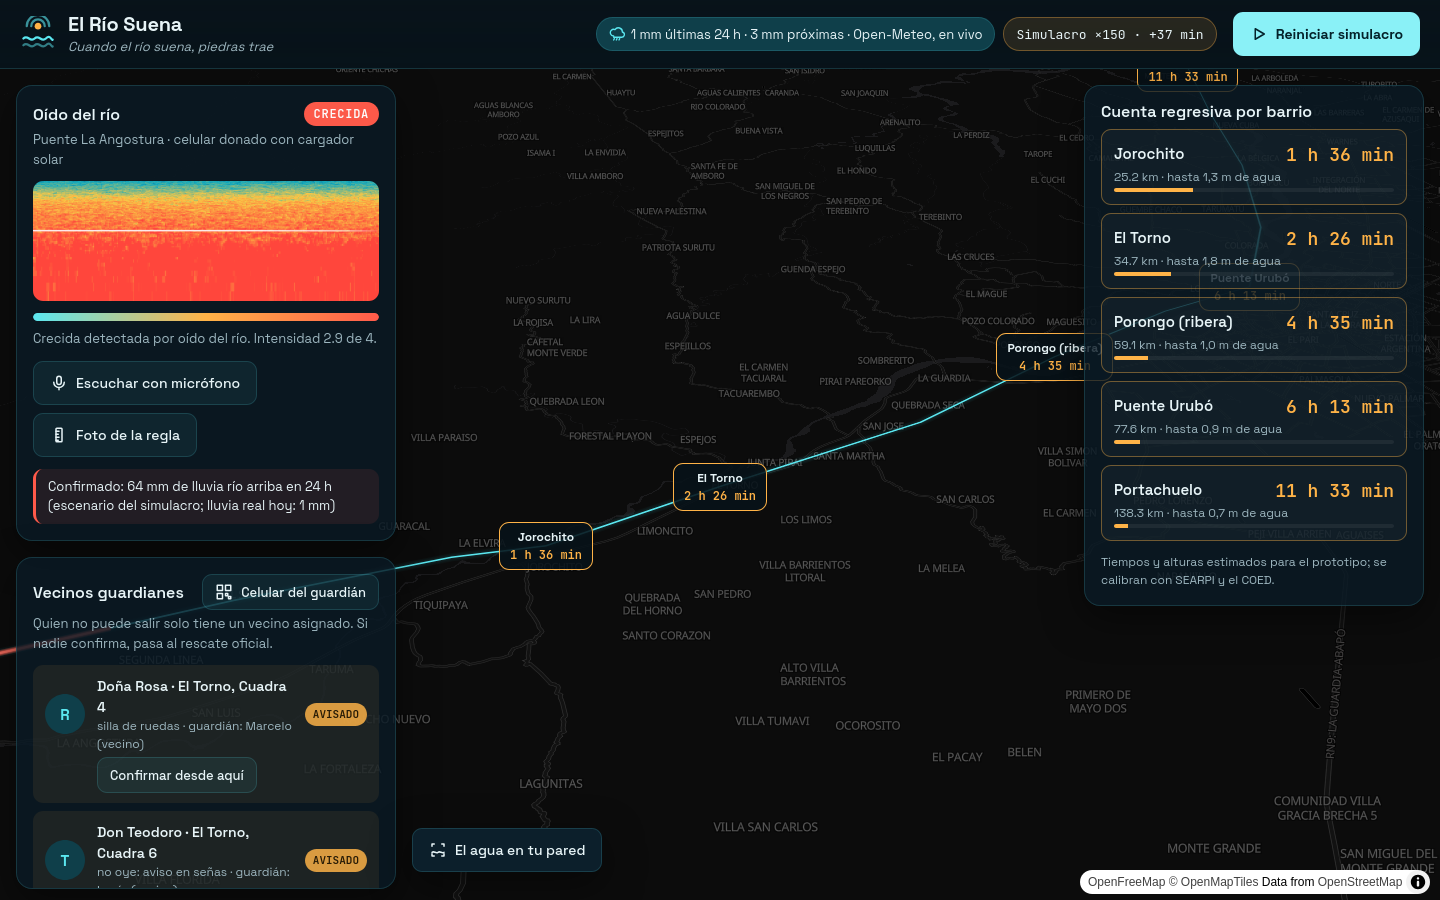
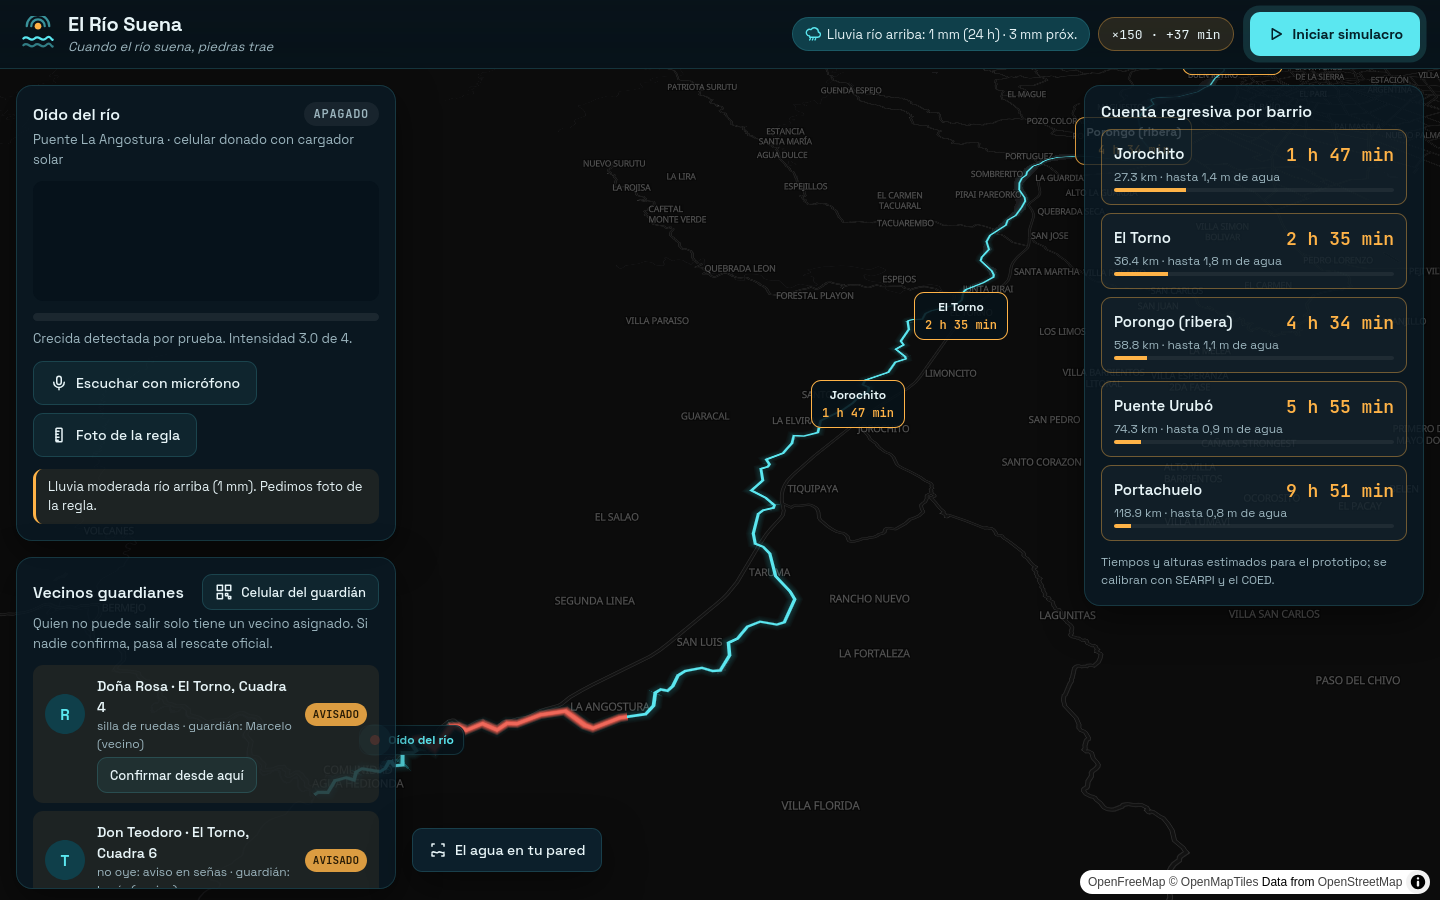
Cauce real del Piraí (OSM), mapa enfocado en el tramo, ajustes de celular

diff --git a/js/cauce-pirai.js b/js/cauce-pirai.js
@@ -1,0 +1,3 @@
+// Cauce real del río Piraí (OpenStreetMap, vía mosaicos de OpenFreeMap), de sur a norte, simplificado.
+// Generado el 18/11/2026; © colaboradores de OpenStreetMap (ODbL).
+export const CAUCE_PIRAI = [[-63.5596,-18.1876],[-63.5590,-18.1870],[-63.5567,-18.1870],[-63.5559,-18.1839],[-63.5536,-18.1831],[-63.5516,-18.1837],[-63.5516,-18.1816],[-63.5505,-18.1807],[-63.5461,-18.1815],[-63.5451,-18.1806],[-63.5445,-18.1783],[-63.5432,-18.1799],[-63.5413,-18.1797],[-63.5420,-18.1763],[-63.5394,-18.1763],[-63.5389,-18.1758],[-63.5405,-18.1738],[-63.5405,-18.1727],[-63.5388,-18.1723],[-63.5347,-18.1751],[-63.5319,-18.1689],[-63.5304,-18.1688],[-63.5281,-18.1700],[-63.5246,-18.1681],[-63.5208,-18.1699],[-63.5187,-18.1680],[-63.5163,-18.1681],[-63.5110,-18.1655],[-63.5051,-18.1644],[-63.4999,-18.1686],[-63.4979,-18.1694],[-63.4918,-18.1664],[-63.4856,-18.1653],[-63.4838,-18.1628],[-63.4836,-18.1589],[-63.4823,-18.1579],[-63.4806,-18.1583],[-63.4794,-18.1569],[-63.4782,-18.1536],[-63.4765,-18.1522],[-63.4723,-18.1512],[-63.4696,-18.1522],[-63.4677,-18.1520],[-63.4654,-18.1472],[-63.4657,-18.1431],[-63.4634,-18.1417],[-63.4608,-18.1377],[-63.4575,-18.1360],[-63.4532,-18.1370],[-63.4512,-18.1362],[-63.4482,-18.1282],[-63.4493,-18.1255],[-63.4531,-18.1198],[-63.4545,-18.1113],[-63.4563,-18.1087],[-63.4585,-18.1075],[-63.4590,-18.1035],[-63.4575,-18.0955],[-63.4561,-18.0940],[-63.4531,-18.0930],[-63.4528,-18.0919],[-63.4553,-18.0887],[-63.4594,-18.0856],[-63.4560,-18.0812],[-63.4565,-18.0760],[-63.4544,-18.0751],[-63.4539,-18.0740],[-63.4548,-18.0718],[-63.4497,-18.0689],[-63.4468,-18.0642],[-63.4461,-18.0606],[-63.4430,-18.0608],[-63.4386,-18.0591],[-63.4374,-18.0533],[-63.4302,-18.0480],[-63.4267,-18.0444],[-63.4242,-18.0407],[-63.4212,-18.0384],[-63.4209,-18.0362],[-63.4227,-18.0348],[-63.4218,-18.0324],[-63.4138,-18.0281],[-63.4109,-18.0225],[-63.4072,-18.0206],[-63.4073,-18.0193],[-63.4100,-18.0151],[-63.4071,-18.0126],[-63.4078,-18.0104],[-63.4043,-18.0034],[-63.4042,-17.9987],[-63.4038,-17.9980],[-63.4021,-17.9974],[-63.3989,-17.9972],[-63.3974,-17.9937],[-63.3952,-17.9920],[-63.3861,-17.9883],[-63.3834,-17.9852],[-63.3821,-17.9802],[-63.3810,-17.9784],[-63.3739,-17.9738],[-63.3696,-17.9700],[-63.3692,-17.9685],[-63.3695,-17.9657],[-63.3725,-17.9586],[-63.3717,-17.9561],[-63.3681,-17.9505],[-63.3681,-17.9448],[-63.3660,-17.9401],[-63.3586,-17.9324],[-63.3572,-17.9285],[-63.3534,-17.9248],[-63.3500,-17.9186],[-63.3475,-17.9132],[-63.3472,-17.9104],[-63.3482,-17.9037],[-63.3471,-17.8980],[-63.3453,-17.8938],[-63.3430,-17.8911],[-63.3421,-17.8882],[-63.3386,-17.8831],[-63.3351,-17.8809],[-63.3336,-17.8790],[-63.3311,-17.8771],[-63.3266,-17.8751],[-63.3167,-17.8739],[-63.3118,-17.8745],[-63.2969,-17.8785],[-63.2923,-17.8778],[-63.2897,-17.8761],[-63.2864,-17.8727],[-63.2849,-17.8696],[-63.2864,-17.8563],[-63.2846,-17.8510],[-63.2824,-17.8375],[-63.2794,-17.8318],[-63.2764,-17.8274],[-63.2713,-17.8221],[-63.2714,-17.8179],[-63.2707,-17.8164],[-63.2681,-17.8150],[-63.2579,-17.8141],[-63.2471,-17.8086],[-63.2421,-17.8036],[-63.2390,-17.8014],[-63.2343,-17.7934],[-63.2270,-17.7842],[-63.2240,-17.7752],[-63.2228,-17.7735],[-63.2166,-17.7665],[-63.2116,-17.7630],[-63.2110,-17.7612],[-63.2113,-17.7540],[-63.2095,-17.7387],[-63.1976,-17.7111],[-63.1983,-17.7027],[-63.2003,-17.6983],[-63.2066,-17.6901],[-63.2088,-17.6746],[-63.2073,-17.6702],[-63.1998,-17.6629],[-63.1960,-17.6545],[-63.1957,-17.6460],[-63.2017,-17.6212],[-63.2034,-17.6184],[-63.2035,-17.6134],[-63.2031,-17.6094],[-63.1974,-17.5944],[-63.1968,-17.5914],[-63.1978,-17.5891],[-63.1977,-17.5846],[-63.2004,-17.5777],[-63.2075,-17.5695],[-63.2095,-17.5567],[-63.2122,-17.5519],[-63.2126,-17.5470],[-63.2140,-17.5421],[-63.2120,-17.5300],[-63.2091,-17.5229],[-63.2106,-17.5164],[-63.2148,-17.5111],[-63.2186,-17.5012],[-63.2221,-17.4960],[-63.2243,-17.4790],[-63.2255,-17.4765],[-63.2328,-17.4710],[-63.2353,-17.4646],[-63.2399,-17.4581],[-63.2461,-17.4457],[-63.2539,-17.4346],[-63.2612,-17.4269],[-63.2670,-17.4183],[-63.2707,-17.4153],[-63.2743,-17.4145],[-63.2864,-17.4152],[-63.2912,-17.4150],[-63.2948,-17.4140],[-63.2973,-17.4082],[-63.3004,-17.4050],[-63.3066,-17.4012],[-63.3151,-17.3887],[-63.3249,-17.3829],[-63.3304,-17.3806],[-63.3340,-17.3755],[-63.3327,-17.3657],[-63.3372,-17.3541],[-63.3377,-17.3512],[-63.3348,-17.3458],[-63.3341,-17.3408],[-63.3276,-17.3305],[-63.3269,-17.3279],[-63.3272,-17.3174],[-63.3266,-17.3136],[-63.3261,-17.3114],[-63.3228,-17.3054],[-63.3217,-17.3002],[-63.3221,-17.2966],[-63.3240,-17.2941],[-63.3237,-17.2926],[-63.3214,-17.2897],[-63.3175,-17.2884],[-63.3153,-17.2885],[-63.3103,-17.2904],[-63.3091,-17.2898],[-63.3084,-17.2884],[-63.3092,-17.2826],[-63.3073,-17.2779],[-63.3089,-17.2711],[-63.3082,-17.2639],[-63.3069,-17.2587],[-63.3091,-17.2476],[-63.3102,-17.2380],[-63.3099,-17.2347],[-63.3049,-17.2302],[-63.2987,-17.2274],[-63.2991,-17.2243],[-63.3019,-17.2209],[-63.3030,-17.2182],[-63.3032,-17.2147],[-63.2978,-17.2049],[-63.2943,-17.2012],[-63.2901,-17.1945],[-63.2901,-17.1920],[-63.2910,-17.1911],[-63.2948,-17.1895],[-63.2966,-17.1874],[-63.2987,-17.1804],[-63.2978,-17.1796],[-63.2906,-17.1779],[-63.2858,-17.1781],[-63.2840,-17.1770],[-63.2836,-17.1758],[-63.2848,-17.1727],[-63.2909,-17.1667],[-63.2928,-17.1624],[-63.2943,-17.1566],[-63.2988,-17.1482],[-63.2987,-17.1460],[-63.2974,-17.1448],[-63.2895,-17.1410],[-63.2895,-17.1378]];

diff --git a/js/datos.js b/js/datos.js
@@ -1,20 +1,18 @@
 // Datos del prototipo. Distancias, velocidades y alturas son ESTIMADOS para la demo:
 // hay que calibrarlos con SEARPI / COED antes de usarlos de verdad.
-export const SENSOR = { id: 'angostura', nombre: 'Oído del río · Puente La Angostura', lon: -63.560, lat: -18.153 };
+export const SENSOR = { id: 'angostura', nombre: 'Oído del río · Puente La Angostura', lon: -63.5405, lat: -18.1727 };
 
-// Cauce aproximado del Piraí (de sur a norte) para dibujarlo en el mapa.
-export const CAUCE = [
-  [-63.62, -18.22], [-63.560, -18.153], [-63.50, -18.10], [-63.45, -18.06], [-63.425, -18.045],
-  [-63.385, -17.995], [-63.33, -17.93], [-63.29, -17.86], [-63.25, -17.80], [-63.215, -17.760],
-  [-63.21, -17.68], [-63.22, -17.58], [-63.24, -17.48], [-63.26, -17.36],
-];
+import { CAUCE_PIRAI } from './cauce-pirai.js';
+export const CAUCE = CAUCE_PIRAI;
+/** índice del cauce más cercano al sensor: desde ahí se miden los km */
+export const SENSOR_IDX = CAUCE.reduce((m, p, i) => (Math.hypot(p[0] - SENSOR.lon, p[1] - SENSOR.lat) < Math.hypot(CAUCE[m][0] - SENSOR.lon, CAUCE[m][1] - SENSOR.lat) ? i : m), 0);
 
-export const SINUOSIDAD = 1.35; // el río serpentea: más largo que la línea dibujada
+export const SINUOSIDAD = 1.05; // el trazado real ya está simplificado
 
-/** km acumulados del cauce desde el sensor (índice 1) hasta cada vértice. */
+/** km acumulados del cauce desde el sensor hasta cada vértice (0 río arriba del sensor). */
 export const KM_CAUCE = (() => {
-  const km = [0, 0];
-  for (let i = 2; i < CAUCE.length; i++) km.push(km[i - 1] + distKm(CAUCE[i - 1], CAUCE[i]) * SINUOSIDAD);
+  const km = CAUCE.map(() => 0);
+  for (let i = SENSOR_IDX + 1; i < CAUCE.length; i++) km[i] = km[i - 1] + distKm(CAUCE[i - 1], CAUCE[i]) * SINUOSIDAD;
   return km;
 })();
 export const KM_TOTAL = KM_CAUCE[KM_CAUCE.length - 1];
@@ -36,7 +34,7 @@ export function distKm(a, b) {
 /** Proyecta un punto sobre el cauce y devuelve los km desde el sensor. */
 export function kmEnCauce(p) {
   let mejor = { d: Infinity, km: 0 };
-  for (let i = 1; i < CAUCE.length - 1; i++) {
+  for (let i = SENSOR_IDX; i < CAUCE.length - 1; i++) {
     const a = CAUCE[i], b = CAUCE[i + 1], dx = b[0] - a[0], dy = b[1] - a[1];
     const t = Math.max(0, Math.min(1, ((p[0] - a[0]) * dx + (p[1] - a[1]) * dy) / (dx * dx + dy * dy)));
     const q = [a[0] + t * dx, a[1] + t * dy], d = distKm(p, q);
@@ -46,8 +44,8 @@ export function kmEnCauce(p) {
 }
 /** Punto del cauce a km recorridos desde el sensor (para dibujar la crecida). */
 export function tramoHasta(km) {
-  const pts = [CAUCE[1]];
-  for (let i = 2; i < CAUCE.length; i++) {
+  const pts = [CAUCE[SENSOR_IDX]];
+  for (let i = SENSOR_IDX + 1; i < CAUCE.length; i++) {
     if (KM_CAUCE[i] <= km) { pts.push(CAUCE[i]); continue; }
     const t = (km - KM_CAUCE[i - 1]) / (KM_CAUCE[i] - KM_CAUCE[i - 1]);
     if (t > 0) pts.push([CAUCE[i - 1][0] + (CAUCE[i][0] - CAUCE[i - 1][0]) * t, CAUCE[i - 1][1] + (CAUCE[i][1] - CAUCE[i - 1][1]) * t]);

diff --git a/js/mapa.js b/js/mapa.js
@@ -18,7 +18,10 @@ export function crearMapa(el) {
     map.addLayer({ id: 'crecida', type: 'line', source: 'crecida', paint: { 'line-color': '#ff5a4a', 'line-width': 9, 'line-blur': 2, 'line-opacity': 0.9 } });
   };
   map.on('style.load', capas);
-  map.on('load', () => clearTimeout(t));
+  map.on('load', () => {
+    clearTimeout(t);
+    if (innerWidth <= 900) el.querySelector('.maplibregl-ctrl-attrib')?.classList.remove('maplibregl-compact-show');
+  });
 
   const marcas = {};
   const marca = (id, lon, lat, html, clase) => {
@@ -42,7 +45,7 @@ export function crearMapa(el) {
       m.el.querySelector('.cr').textContent = texto; m.el.dataset.estado = estado;
     },
     volar(b) { map.flyTo({ center: [b.lon, b.lat], zoom: 11, pitch: 58, duration: 2500, padding: PAD() }); },
-    tramo(b) { map.fitBounds([[Math.min(SENSOR.lon, b.lon), Math.min(SENSOR.lat, b.lat)], [Math.max(SENSOR.lon, b.lon), Math.max(SENSOR.lat, b.lat)]], { padding: { ...PAD(), top: PAD().top + 60, bottom: PAD().bottom + 60 }, pitch: 50, duration: 2500 }); },
+    tramo(b) { map.fitBounds([[Math.min(SENSOR.lon, b.lon), Math.min(SENSOR.lat, b.lat)], [Math.max(SENSOR.lon, b.lon), Math.max(SENSOR.lat, b.lat)]], { padding: { top: 60, bottom: 120, left: 80, right: 60 }, pitch: 50, duration: 2500 }); },
     general() { map.flyTo({ center: [-63.36, -17.93], zoom: 9.2, pitch: 55, bearing: -20, duration: 2000, padding: PAD() }); },
   };
 }

diff --git a/estilo.css b/estilo.css
@@ -132,12 +132,16 @@ select { min-height: 36px; border-radius: var(--r-chico); background: var(--supe
   html, body { height: auto; }
   body { overflow: visible; }
   .barra { flex-wrap: wrap; padding: 12px 16px; }
-  .chips { order: 3; width: 100%; }
+  .chips { order: 3; width: 100%; flex-wrap: wrap; }
+  .chip { font-size: 12px; padding: 4px 10px; white-space: nowrap; }
   .barra .btn.primario { padding: 8px 12px; }
   .tablero { height: auto; display: flex; flex-direction: column; padding: 0 16px 96px; gap: 16px; pointer-events: auto; }
   .mapa { position: relative; height: 52vh; margin: 0 -16px; inset: auto; }
   .cuenta { order: 2; } .oido { order: 1; } .guardianes { order: 3; }
   .panel { max-height: none; overflow: visible; }
+  .marca { padding: 3px 7px; font-size: 10px; border-radius: 8px; }
+  .marca .cr { font-size: 10px; }
+  .marca:not([data-estado="alerta"]):not([data-estado="llego"]):not(.sensor) .cr { display: none; }
   .flotante { position: fixed; left: 16px; right: 16px; bottom: 16px; z-index: 5; }
 }
 .btn.primario.late { animation: llama 1.6s ease-in-out infinite; }

diff --git a/js/app.js b/js/app.js
@@ -218,4 +218,4 @@ lluviaRioArriba().then(l => {
 });
 
 if (JURADO) { $('#btn-simulacro').classList.add('late'); document.title = 'El Río Suena · demo'; }
-window.__rs = { est, alerta, confirmar, oido }; // para pruebas
+window.__rs = { est, alerta, confirmar, oido, mapa }; // para pruebas
